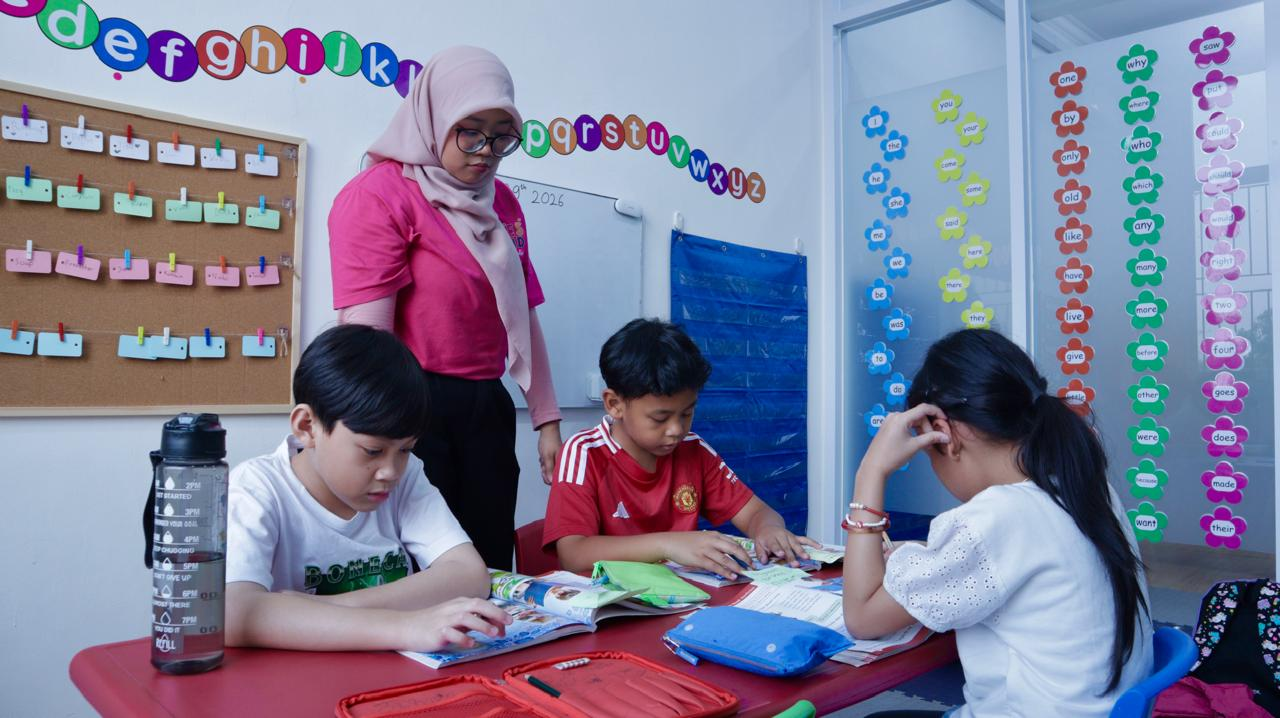
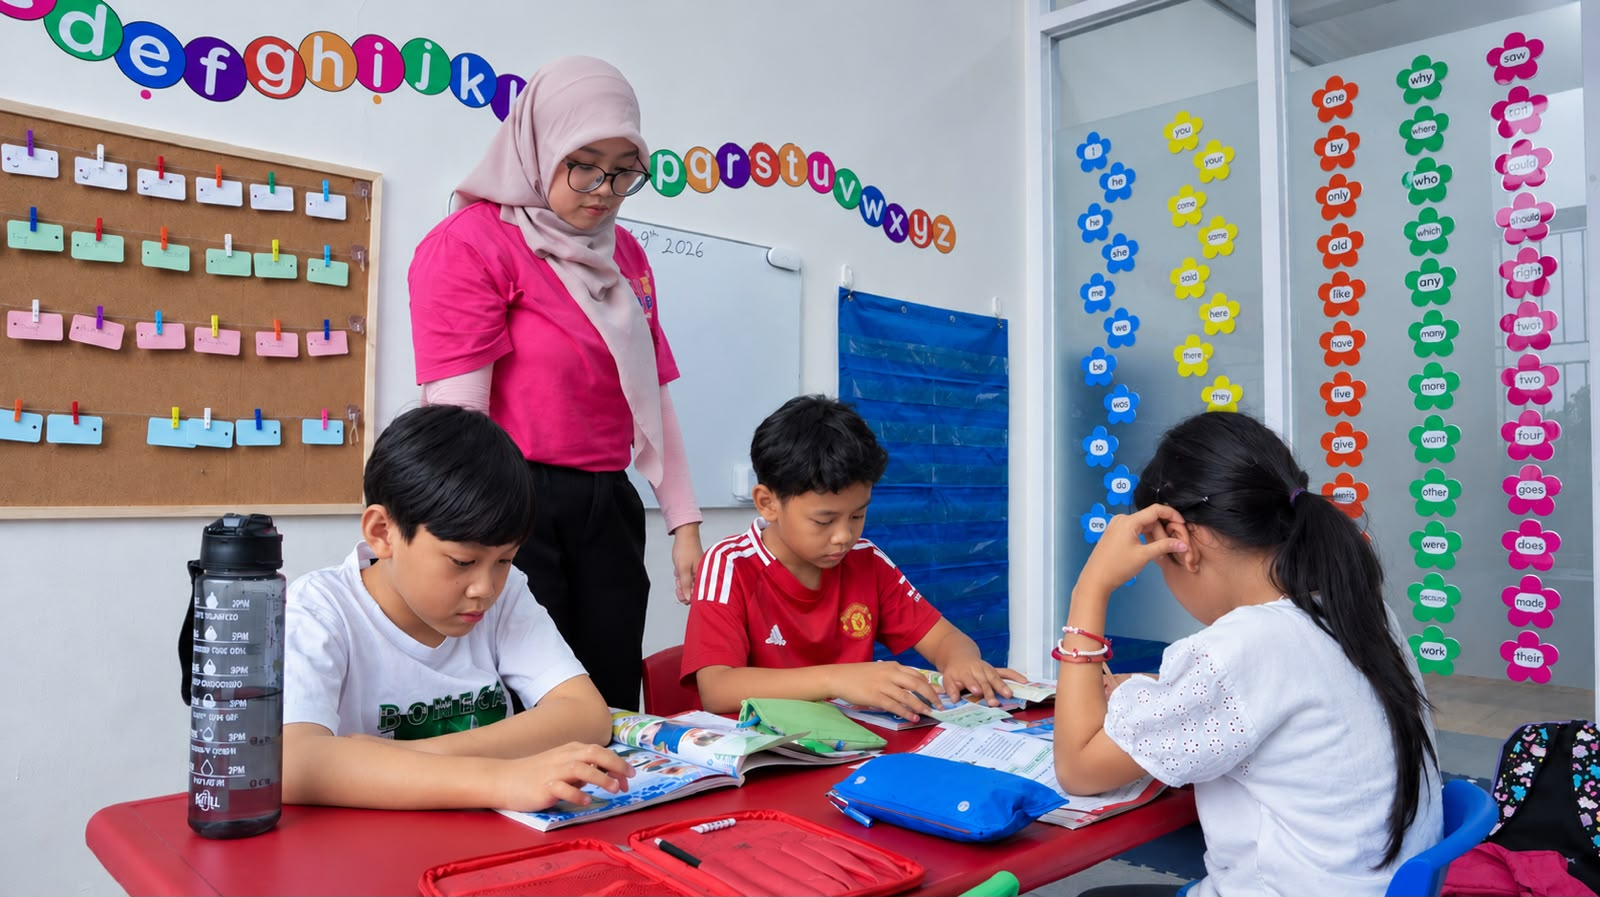
memperbaiki gambar untuk setiap kelas dan melakukan finalisasi copywriting judul bahasa Inggris

diff --git a/tentang-kami.html b/tentang-kami.html
@@ -37,7 +37,7 @@
         <!-- Breadcrumb dengan Icon Rumah -->
         <div class="breadcrumb-pills" style="margin-bottom: 24px;">
           <a href="index.html" class="pill-item">
-            <span class="pill-home-icon">🏠</span> Beranda
+            <span class="pill-home-icon">🏠</span> Home
           </a> › 
           <span class="pill-item active">About Us</span>
         </div>
@@ -50,7 +50,7 @@
               <span class="title-sparkle"></span>
             </h1>
             <p class="page-lead hero-desc">
-              BESTKIDS Learning Center hadir sejak tahun 2019 sebagai pusat pembelajaran anak yang berkomitmen untuk memberikan pengalaman belajar yang efektif, menyenangkan, dan bermakna bagi setiap anak.
+              <strong>BESTKIDS Learning Center</strong> hadir sejak tahun 2019 sebagai pusat pembelajaran anak yang berkomitmen untuk memberikan pengalaman belajar yang efektif, menyenangkan, dan bermakna bagi setiap anak.
             </p>
             <div class="hero-action-row">
               <a href="kontak.html" class="btn btn-pink btn-hero-cta">
@@ -178,7 +178,6 @@
           <span class="blue">Founder &amp;</span> <span class="pink">Owner</span> 
           <span class="sparkle-doodle"></span>
         </h2>
-        <p>Sosok di balik perjalanan BESTKIDS.</p>
       </div>
 
       <div class="owner-card-wrapper bg-pink-light">
@@ -216,7 +215,7 @@
     <section class="container section-sm">
       <div class="cta-banner cta-banner-simple">
         <div class="cta-text">
-          <h2>Siap Bergabung dengan Keluarga BESTKIDS?</h2>
+          <h2>Ready to Join the BESTKIDS Family?</h2>
           <p>Jadwalkan Trial Class gratis, dan lihat sendiri bagaimana si kecil belajar di kelas kami.</p>
         </div>
         <div class="cta-action">

diff --git a/detail-math-class.html b/detail-math-class.html
@@ -3,7 +3,7 @@
 <head>
   <meta charset="utf-8">
   <meta name="viewport" content="width=device-width, initial-scale=1">
-  <title>Program Math Class (Primary 1–6) — BESTKIDS</title>
+  <title>Program Math Class (Primary 1–6) - BESTKIDS</title>
   <link rel="icon" type="image/png" href="assets\logo_footer.png">
   
   <link rel="preconnect" href="https://fonts.googleapis.com">
@@ -24,8 +24,8 @@
     <section class="page-hero hero-detail-redesign">
       <div class="container relative-container">
         <div class="breadcrumb-pills" style="margin-bottom: 24px;">
-          <a href="index.html" class="pill-item">Beranda</a> › 
-          <a href="program.html" class="pill-item">Program</a> › 
+          <a href="index.html" class="pill-item">Home</a> › 
+          <a href="program.html" class="pill-item">Programs</a> › 
           <span class="pill-item active">Math Class</span>
         </div>
 
@@ -54,7 +54,7 @@
 
           <div class="hero-detail-card">
             <div class="hero-img-frame">
-              <img src="assets\galeri\mathclass1.webp" alt="Anak Belajar Math Class BESTKIDS" onerror="this.src='assets/program_math_class.png'">
+              <img src="assets\galeri\Mathclass1.jpg" alt="Anak Belajar Math Class BESTKIDS" onerror="this.src='assets/program_math_class.png'">
               <span class="hero-floating-badge">✨ Elementary School</span>
             </div>
             

diff --git a/detail-english.html b/detail-english.html
@@ -3,7 +3,7 @@
 <head>
   <meta charset="utf-8">
   <meta name="viewport" content="width=device-width, initial-scale=1">
-  <title>Program English for Young Learners — BESTKIDS</title>
+  <title>Program English for Young Learners - BESTKIDS</title>
   <link rel="icon" type="image/png" href="assets\logo_footer.png">
   
   <link rel="preconnect" href="https://fonts.googleapis.com">
@@ -24,8 +24,8 @@
     <section class="page-hero hero-detail-redesign">
       <div class="container relative-container">
         <div class="breadcrumb-pills" style="margin-bottom: 24px;">
-          <a href="index.html" class="pill-item">Beranda</a> › 
-          <a href="program.html" class="pill-item">Program</a> › 
+          <a href="index.html" class="pill-item">Home</a> › 
+          <a href="program.html" class="pill-item">Programs</a> › 
           <span class="pill-item active">English for Young Learners</span>
         </div>
 
@@ -54,7 +54,7 @@
 
           <div class="hero-detail-card">
             <div class="hero-img-frame">
-              <img src="assets\galeri\eyl.jpg" alt="English For Young Learners BESTKIDS">
+              <img src="assets\galeri\Eyl.jpg" alt="English For Young Learners BESTKIDS">
               <span class="hero-floating-badge">✨ Cambridge Curriculum</span>
             </div>
             

diff --git a/detail-pre-math.html b/detail-pre-math.html
@@ -3,7 +3,7 @@
 <head>
   <meta charset="utf-8">
   <meta name="viewport" content="width=device-width, initial-scale=1">
-  <title>Program Pre-Math (4–6 Tahun) — BESTKIDS</title>
+  <title>Program Pre-Math (4–6 Tahun) - BESTKIDS</title>
   <link rel="icon" type="image/png" href="assets\logo_footer.png">
   
   <link rel="preconnect" href="https://fonts.googleapis.com">
@@ -24,8 +24,8 @@
     <section class="page-hero hero-detail-redesign">
       <div class="container relative-container">
         <div class="breadcrumb-pills" style="margin-bottom: 24px;">
-          <a href="index.html" class="pill-item">Beranda</a> › 
-          <a href="program.html" class="pill-item">Program</a> › 
+          <a href="index.html" class="pill-item">Home</a> › 
+          <a href="program.html" class="pill-item">Programs</a> › 
           <span class="pill-item active">Pre-Math</span>
         </div>
 
@@ -54,7 +54,7 @@
 
           <div class="hero-detail-card">
             <div class="hero-img-frame">
-              <img src="assets\galeri\ppm.jpg" alt="Anak Belajar Pre-Math BESTKIDS">
+              <img src="assets\galeri\Pre-Math Learning Session.jpg" alt="Anak Belajar Pre-Math BESTKIDS">
               <span class="hero-floating-badge">✨ Smart 1–2</span>
             </div>
             

diff --git a/detail-phonics.html b/detail-phonics.html
@@ -3,7 +3,7 @@
 <head>
   <meta charset="utf-8">
   <meta name="viewport" content="width=device-width, initial-scale=1">
-  <title>Program Phonics (4–8 Tahun) — BESTKIDS</title>
+  <title>Program Phonics (4–8 Tahun) - BESTKIDS</title>
   <link rel="icon" type="image/png" href="assets\logo_footer.png">
   
   <link rel="preconnect" href="https://fonts.googleapis.com">
@@ -24,8 +24,8 @@
     <section class="page-hero hero-detail-redesign">
       <div class="container relative-container">
         <div class="breadcrumb-pills" style="margin-bottom: 24px;">
-          <a href="index.html" class="pill-item">Beranda</a> › 
-          <a href="program.html" class="pill-item">Program</a> › 
+          <a href="index.html" class="pill-item">Home</a> › 
+          <a href="program.html" class="pill-item">Programs</a> › 
           <span class="pill-item active">Phonics</span>
         </div>
 
@@ -54,7 +54,7 @@
 
           <div class="hero-detail-card">
             <div class="hero-img-frame">
-              <img src="assets\galeri\pp2.jpg" alt="Anak Belajar Phonics BESTKIDS">
+              <img src="assets\galeri\Phonics Sound Recognition.jpg" alt="Anak Belajar Phonics BESTKIDS">
               <span class="hero-floating-badge">✨ Explorer 1–4</span>
             </div>
             

diff --git a/detail-calistung.html b/detail-calistung.html
@@ -3,7 +3,7 @@
 <head>
   <meta charset="utf-8">
   <meta name="viewport" content="width=device-width, initial-scale=1">
-  <title>Program Calistung (5–8 Tahun) — BESTKIDS</title>
+  <title>Program Calistung (5–8 Tahun) - BESTKIDS</title>
   <link rel="icon" type="image/png" href="assets\logo_footer.png">
   
   <link rel="preconnect" href="https://fonts.googleapis.com">
@@ -24,8 +24,8 @@
     <section class="page-hero hero-detail-redesign">
       <div class="container relative-container">
         <div class="breadcrumb-pills" style="margin-bottom: 24px;">
-          <a href="index.html" class="pill-item">Beranda</a> › 
-          <a href="program.html" class="pill-item">Program</a> › 
+          <a href="index.html" class="pill-item">Home</a> › 
+          <a href="program.html" class="pill-item">Programs</a> › 
           <span class="pill-item active">Calistung</span>
         </div>
 
@@ -54,7 +54,7 @@
 
           <div class="hero-detail-card">
             <div class="hero-img-frame">
-              <img src="assets\galeri\pc.jpg" alt="Anak Belajar Calistung BESTKIDS">
+              <img src="assets\galeri\Calistung.jpg" alt="Anak Belajar Calistung BESTKIDS">
               <span class="hero-floating-badge">✨ Pintar 1–4</span>
             </div>
             

diff --git a/galeri.html b/galeri.html
@@ -37,9 +37,9 @@
         <!-- Breadcrumb Kembali di Kiri -->
         <div class="breadcrumb-pills hero-breadcrumb-left">
           <a href="index.html" class="pill-item">
-            <span class="pill-home-icon">🏠</span> Beranda
+            <span class="pill-home-icon">🏠</span> Home
           </a> › 
-          <span class="pill-item active">Galeri</span>
+          <span class="pill-item active">Gallery</span>
         </div>
         
         <!-- Title & Description di Tengah -->
@@ -48,7 +48,7 @@
             <span class="blue">Galeri</span> <span class="pink">Kegiatan</span>
           </h1>
           <p class="page-lead hero-desc-center">
-            Momen-momen keceriaan dan semangat belajar si kecil di BESTKIDS Learning Center.
+            Momen-momen keceriaan dan semangat belajar si kecil di <strong>BESTKIDS Learning Center.</strong>
           </p>
         </div>
 
@@ -97,7 +97,7 @@
 
       <!-- Konten Teks & Tombol Kuning -->
       <div class="cta-text">
-        <h2>Yuk, mulai perjalanan belajar terbaik untuk si kecil sekarang!</h2>
+        <h2>Give Your Little One the Best Start</h2>
         <p>Daftar sekarang dan dapatkan pengalaman belajar berkualitas di <strong>BESTKIDS Learning Center.</strong></p>
 
         <div class="cta-action-wrapper">

diff --git a/js/data.js b/js/data.js
@@ -94,7 +94,7 @@ var DATA_PROGRAM = [
 
 var DATA_GALERI = [
   {
-    foto: "assets/galeri/calistung1.webp",
+    foto: "assets/galeri/Calistung.jpg",
     alt: "Interactive Calistung Learning",
     judul: "Interactive Calistung Learning",
     keterangan: "Anak-anak antusias mengenal huruf menggunakan media kancing warna-warni.",
@@ -130,7 +130,7 @@ var DATA_GALERI = [
     warna: "green"
   },
   {
-    foto: "assets/galeri/English Practice Session.jpg",
+    foto: "assets/galeri/Eyl.jpg",
     alt: "English Practice Session",
     judul: "English Practice Session",
     keterangan: "Melatih kepercayaan diri berbicara Bahasa Inggris lewat aktivitas kelompok.",
@@ -157,7 +157,7 @@ var DATA_GALERI = [
     warna: "yellow"
   },
   {
-    foto: "assets/galeri/mathclass1.webp",
+    foto: "assets/galeri/Mathclass1.jpg",
     alt: "Math Class Problem Solving",
     judul: "Math Class Problem Solving",
     keterangan: "Bimbingan matematika dengan metode visual yang mudah dipahami anak.",

diff --git a/detail-sensory-phonics.html b/detail-sensory-phonics.html
@@ -25,8 +25,8 @@
     <section class="page-hero hero-detail-redesign">
       <div class="container relative-container">
         <div class="breadcrumb-pills" style="margin-bottom: 24px;">
-          <a href="index.html" class="pill-item">Beranda</a> › 
-          <a href="program.html" class="pill-item">Program</a> › 
+          <a href="index.html" class="pill-item">Home</a> › 
+          <a href="program.html" class="pill-item">Programs</a> › 
           <span class="pill-item active">Sensory Phonics</span>
         </div>
 
@@ -55,7 +55,7 @@
 
           <div class="hero-detail-card">
             <div class="hero-img-frame">
-              <img src="assets\galeri\psp.jpg" alt="Anak Belajar Sensory Phonics BESTKIDS">
+              <img src="assets\galeri\Tactile Learning Experience.jpg" alt="Anak Belajar Sensory Phonics BESTKIDS">
               <span class="hero-floating-badge">✨ Multi-Sensory</span>
             </div>
             

diff --git a/kebijakan-privasi.html b/kebijakan-privasi.html
@@ -27,9 +27,9 @@
       <div class="container text-center">
         <div class="breadcrumb-pills">
           <a href="index.html" class="pill-item">
-            <span class="pill-home-icon">🏠</span> Beranda
+            <span class="pill-home-icon">🏠</span> Home
           </a> ›
-          <span class="pill-item active">Kebijakan Privasi</span>
+          <span class="pill-item active">Privacy Policy</span>
         </div>
 
         <h1 class="page-title">Kebijakan <span class="pink">Privasi</span></h1>

diff --git a/program.html b/program.html
@@ -60,7 +60,7 @@
 
       <!-- Konten Teks & Tombol Kuning -->
       <div class="cta-text">
-        <h2>Yuk, mulai perjalanan belajar terbaik untuk si kecil sekarang!</h2>
+        <h2>Give Your Little One the Best Start</h2>
         <p>Daftar sekarang dan dapatkan pengalaman belajar berkualitas di <strong>BESTKIDS Learning Center.</strong></p>
 
         <div class="cta-action-wrapper">

diff --git a/index.html b/index.html
@@ -156,7 +156,7 @@
         
         <!-- Konten Teks CTA -->
         <div class="cta-text">
-          <h2>Yuk, mulai perjalanan belajar terbaik untuk si kecil sekarang!</h2>
+          <h2>Give Your Little One the Best Start</h2>
           <p>Daftarkan sekarang dan ajak si kecil mencoba satu sesi kelas kami di <strong>Bestkids Galaxy Learning Center.</strong></p>
         </div>
 
